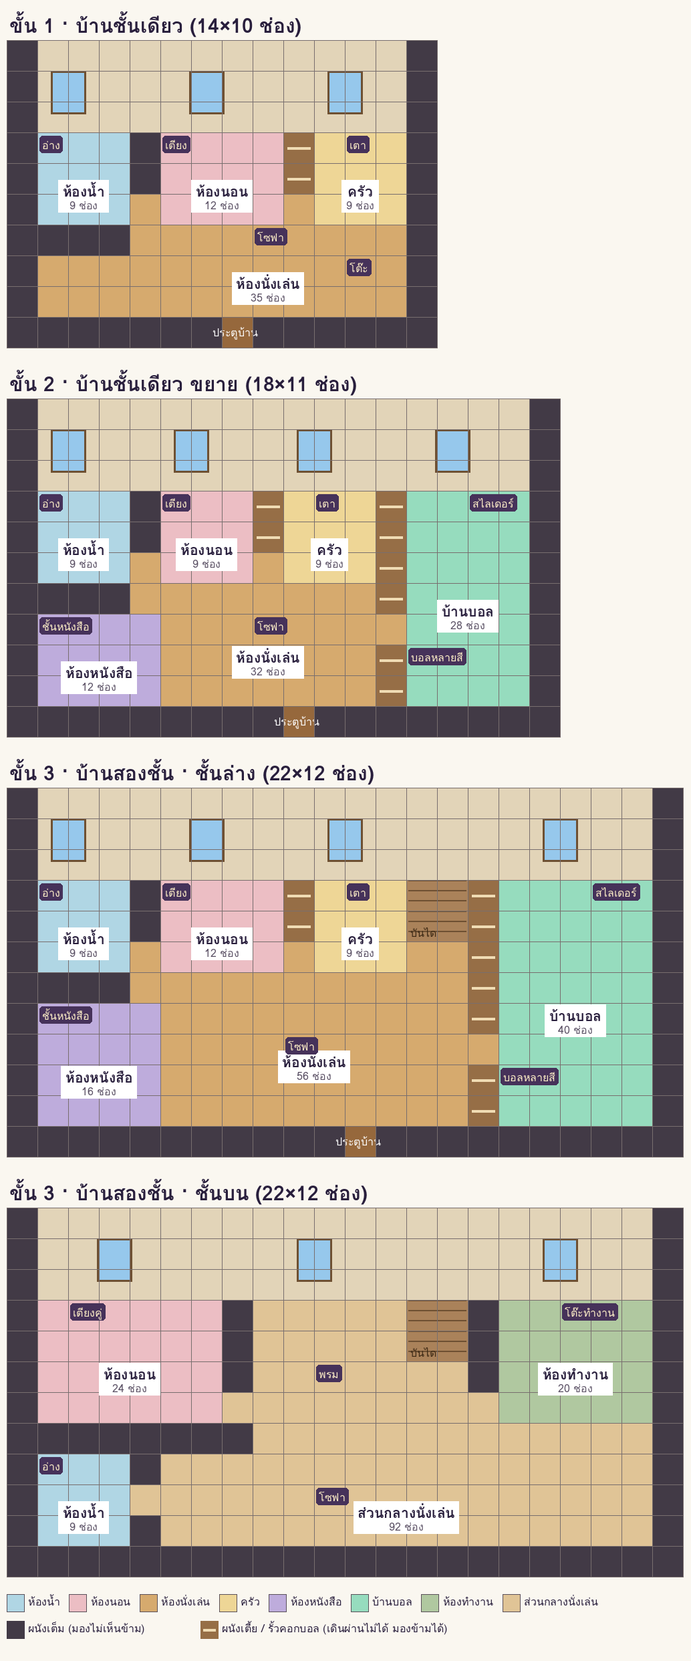
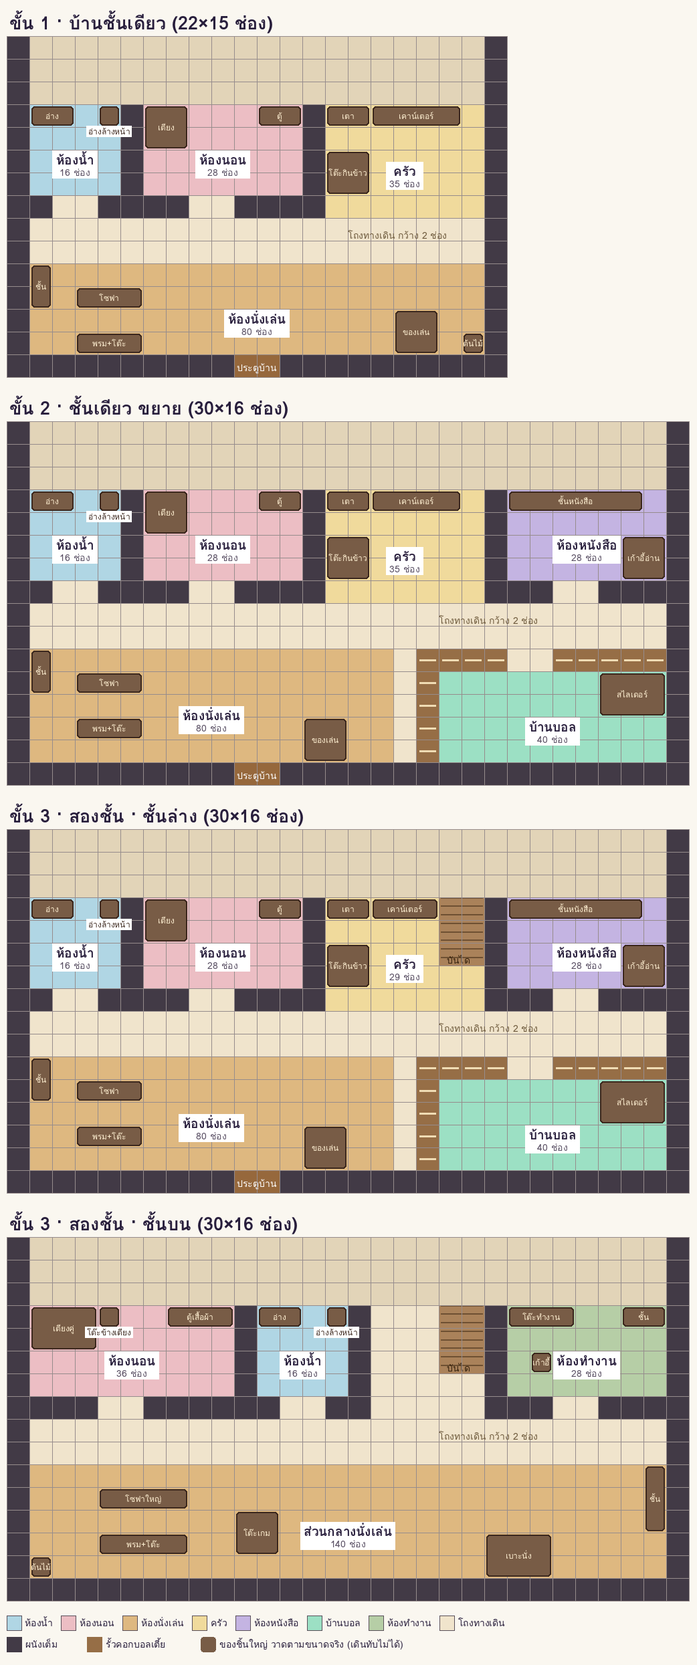
house interior: layout draft 2, bigger houses with a two-tile hall and furniture at real size (draft 1 was too cramped)

diff --git a/house_layouts.py b/house_layouts.py
@@ -1,98 +1,136 @@
 # -*- coding: utf-8 -*-
-# House interior layouts, three steps (owner brief, 4 Oct). Units: game tiles (32 px). Rows 0-2 = back wall, floor = rows 3..H-2, cols 1..W-2.
-# Room sizes come from the game (HSZ): 14x10, 18x11, 22x12.
+# House interior layouts, draft 2 (owner, 4 Oct: draft 1 was too small, hardly any room to walk).
+# Bigger houses built round one rule: a HALL two tiles wide runs through the middle, rooms open onto it through doors two tiles wide,
+# and the big furniture is drawn at its real size so the free walking room can be counted, not guessed.
+# Units: game tiles (32 px). Rows 0-2 = back wall. The game's room sizes (HSZ) are numbers in the code and will be changed to these.
 import json
 from PIL import Image, ImageDraw, ImageFont
-C = 46                                   # drawing size of one tile in the plan picture
+C = 34
 FB = '/usr/share/fonts/opentype/tlwg/Loma-Bold.otf'; FR = '/usr/share/fonts/opentype/tlwg/Loma.otf'
-f_room = ImageFont.truetype(FB, 21, layout_engine=ImageFont.Layout.RAQM); f_small = ImageFont.truetype(FR, 16, layout_engine=ImageFont.Layout.RAQM); f_title = ImageFont.truetype(FB, 30, layout_engine=ImageFont.Layout.RAQM)
-COL = {'bath': (176, 214, 228), 'bed': (236, 190, 196), 'living': (214, 170, 110), 'kitchen': (238, 214, 150), 'book': (190, 172, 220), 'ball': (150, 220, 190), 'work': (176, 200, 160), 'hall': (224, 196, 150)}
-NAME = {'bath': 'ห้องน้ำ', 'bed': 'ห้องนอน', 'living': 'ห้องนั่งเล่น', 'kitchen': 'ครัว', 'book': 'ห้องหนังสือ', 'ball': 'บ้านบอล', 'work': 'ห้องทำงาน', 'hall': 'ส่วนกลางนั่งเล่น'}
-WALL = (66, 58, 70); BACK = (226, 212, 184); LOW = (150, 110, 70)
+L = ImageFont.Layout.RAQM
+f_room = ImageFont.truetype(FB, 19, layout_engine=L); f_small = ImageFont.truetype(FR, 14, layout_engine=L); f_title = ImageFont.truetype(FB, 27, layout_engine=L); f_tiny = ImageFont.truetype(FR, 12, layout_engine=L)
+COL = {'bath': (176, 214, 228), 'bed': (236, 190, 196), 'living': (222, 184, 128), 'kitchen': (240, 218, 156), 'book': (196, 180, 226), 'ball': (156, 224, 196), 'work': (182, 206, 166), 'hall': (240, 228, 204)}
+NAME = {'bath': 'ห้องน้ำ', 'bed': 'ห้องนอน', 'living': 'ห้องนั่งเล่น', 'kitchen': 'ครัว', 'book': 'ห้องหนังสือ', 'ball': 'บ้านบอล', 'work': 'ห้องทำงาน', 'hall': 'โถงทางเดิน'}
+WALL = (66, 58, 70); BACK = (226, 212, 184); LOW = (150, 110, 70); THING = (120, 92, 70)
 
-# every plan: rooms = [kind, x0, y0, x1, y1] inclusive tiles · walls = full walls (solid) · low = half walls / play-pen fence (solid, see over) ·
-# doors = gaps in a wall line · things = [label, x, y] where the big fixed things go · stairs = [x0, y0, x1, y1]
+def base(W, H, upper, lower, extra_walls=(), low=(), things=(), stairs=None, door=None, title='', pid=''):
+    # upper = [(kind, x0, x1, open)] rooms along the back wall, rows 3..6; a wall column stands between neighbours; open=True means no wall toward the hall
+    rooms = []; walls = []; x_prev_end = None
+    for k, x0, x1, opn, doorx in upper:
+        rooms.append([k, x0, 3, x1, 6 if not opn else 7])
+        if not opn:
+            for x in range(x0, x1 + 1):
+                if doorx is None or x not in (doorx, doorx + 1): walls.append([x, 7, x, 7])
+                else: rooms.append(['hall', x, 7, x, 7])
+    xs = sorted((x0, x1) for _, x0, x1, _, _ in upper)
+    for (a0, a1), (b0, b1) in zip(xs, xs[1:]):
+        for x in range(a1 + 1, b0): walls.append([x, 3, x, 7])
+    rooms.append(['hall', 1, 8, W - 2, 9])
+    for k, x0, y0, x1, y1 in lower: rooms.append([k, x0, y0, x1, y1])
+    return {'id': pid, 'title': title, 'W': W, 'H': H, 'door': door, 'rooms': rooms, 'walls': walls + [list(w) for w in extra_walls], 'low': [list(l) for l in low], 'things': [list(t) for t in things], 'stairs': stairs}
+
 PLANS = [
- {'id': 'L1', 'title': 'ขั้น 1 · บ้านชั้นเดียว (14×10 ช่อง)', 'W': 14, 'H': 10, 'door': 7,
-  'rooms': [['bath', 1, 3, 3, 5], ['bed', 5, 3, 8, 5], ['kitchen', 10, 3, 12, 5], ['living', 4, 6, 12, 8], ['living', 1, 7, 3, 8], ['living', 9, 5, 9, 5], ['living', 4, 5, 4, 5]],
-  'walls': [[4, 3, 4, 4], [1, 6, 3, 6]], 'low': [[9, 3, 9, 4]],
-  'things': [['อ่าง', 1, 3], ['เตียง', 5, 3], ['เตา', 11, 3], ['โซฟา', 8, 6], ['โต๊ะ', 11, 7]], 'stairs': None, 'windows': [2, 6.5, 11]},
- {'id': 'L2', 'title': 'ขั้น 2 · บ้านชั้นเดียว ขยาย (18×11 ช่อง)', 'W': 18, 'H': 11, 'door': 9,
-  'rooms': [['bath', 1, 3, 3, 5], ['book', 1, 7, 4, 9], ['bed', 5, 3, 7, 5], ['kitchen', 9, 3, 11, 5], ['living', 5, 6, 11, 9], ['living', 8, 5, 8, 5], ['living', 4, 5, 4, 6], ['living', 12, 7, 12, 7], ['ball', 13, 3, 16, 9]],
-  'walls': [[4, 3, 4, 4], [1, 6, 3, 6]], 'low': [[8, 3, 8, 4], [12, 3, 12, 6], [12, 8, 12, 9]],
-  'things': [['อ่าง', 1, 3], ['ชั้นหนังสือ', 1, 7], ['เตียง', 5, 3], ['เตา', 10, 3], ['โซฟา', 8, 7], ['สไลเดอร์', 15, 3], ['บอลหลายสี', 13, 8]], 'stairs': None, 'windows': [2, 6, 10, 14.5]},
- {'id': 'L3a', 'title': 'ขั้น 3 · บ้านสองชั้น · ชั้นล่าง (22×12 ช่อง)', 'W': 22, 'H': 12, 'door': 11,
-  'rooms': [['bath', 1, 3, 3, 5], ['book', 1, 7, 4, 10], ['bed', 5, 3, 8, 5], ['kitchen', 10, 3, 12, 5], ['living', 5, 6, 14, 10], ['living', 9, 5, 9, 5], ['living', 4, 5, 4, 6], ['living', 13, 5, 14, 5], ['living', 15, 8, 15, 8], ['ball', 16, 3, 20, 10]],
-  'walls': [[4, 3, 4, 4], [1, 6, 3, 6]], 'low': [[9, 3, 9, 4], [15, 3, 15, 7], [15, 9, 15, 10]],
-  'things': [['อ่าง', 1, 3], ['ชั้นหนังสือ', 1, 7], ['เตียง', 5, 3], ['เตา', 11, 3], ['โซฟา', 9, 8], ['สไลเดอร์', 19, 3], ['บอลหลายสี', 16, 9]], 'stairs': [13, 3, 14, 4], 'windows': [2, 6.5, 11, 18]},
- {'id': 'L3b', 'title': 'ขั้น 3 · บ้านสองชั้น · ชั้นบน (22×12 ช่อง)', 'W': 22, 'H': 12, 'door': None,
-  'rooms': [['bed', 1, 3, 6, 6], ['bath', 1, 8, 3, 10], ['work', 16, 3, 20, 6], ['hall', 8, 3, 14, 7], ['hall', 5, 8, 20, 10], ['hall', 15, 6, 15, 7], ['hall', 16, 7, 20, 7], ['hall', 7, 6, 7, 6], ['hall', 4, 9, 4, 9]],
-  'walls': [[7, 3, 7, 5], [1, 7, 7, 7], [4, 8, 4, 8], [4, 10, 4, 10], [15, 3, 15, 5]], 'low': [],
-  'things': [['เตียงคู่', 2, 3], ['อ่าง', 1, 8], ['โต๊ะทำงาน', 18, 3], ['โซฟา', 10, 9], ['พรม', 10, 5]], 'stairs': [13, 3, 14, 4], 'windows': [3.5, 10, 18]},
+ base(22, 15, pid='L1', title='ขั้น 1 · บ้านชั้นเดียว (22×15 ช่อง)', door=(10, 11),
+   upper=[('bath', 1, 4, False, 2), ('bed', 6, 12, False, 8), ('kitchen', 14, 20, True, None)],
+   lower=[('living', 1, 10, 20, 13)],
+   things=[('อ่าง', 1, 3, 2, 3), ('อ่างล้างหน้า', 4, 3, 4, 3), ('เตียง', 6, 3, 7, 4), ('ตู้', 11, 3, 12, 3), ('เตา', 14, 3, 15, 3), ('เคาน์เตอร์', 16, 3, 19, 3), ('โต๊ะกินข้าว', 14, 5, 15, 6),
+           ('ชั้น', 1, 10, 1, 11), ('โซฟา', 3, 11, 5, 11), ('พรม+โต๊ะ', 3, 13, 5, 13), ('ต้นไม้', 20, 13, 20, 13), ('ของเล่น', 17, 12, 18, 13)]),
+ base(30, 16, pid='L2', title='ขั้น 2 · ชั้นเดียว ขยาย (30×16 ช่อง)', door=(10, 11),
+   upper=[('bath', 1, 4, False, 2), ('bed', 6, 12, False, 8), ('kitchen', 14, 20, True, None), ('book', 22, 28, False, 24)],
+   lower=[('living', 1, 10, 16, 14), ('ball', 19, 11, 28, 14), ('hall', 17, 10, 17, 14), ('hall', 22, 10, 23, 10)],
+   low=[(18, 10, 18, 14), (19, 10, 21, 10), (24, 10, 28, 10)],
+   things=[('อ่าง', 1, 3, 2, 3), ('อ่างล้างหน้า', 4, 3, 4, 3), ('เตียง', 6, 3, 7, 4), ('ตู้', 11, 3, 12, 3), ('เตา', 14, 3, 15, 3), ('เคาน์เตอร์', 16, 3, 19, 3), ('โต๊ะกินข้าว', 14, 5, 15, 6),
+           ('ชั้นหนังสือ', 22, 3, 27, 3), ('เก้าอี้อ่าน', 27, 5, 28, 6), ('ชั้น', 1, 10, 1, 11), ('โซฟา', 3, 11, 5, 11), ('พรม+โต๊ะ', 3, 13, 5, 13), ('ของเล่น', 13, 13, 14, 14), ('สไลเดอร์', 26, 11, 28, 12)]),
+ base(30, 16, pid='L3a', title='ขั้น 3 · สองชั้น · ชั้นล่าง (30×16 ช่อง)', door=(10, 11), stairs=[19, 3, 20, 5],
+   upper=[('bath', 1, 4, False, 2), ('bed', 6, 12, False, 8), ('kitchen', 14, 20, True, None), ('book', 22, 28, False, 24)],
+   lower=[('living', 1, 10, 16, 14), ('ball', 19, 11, 28, 14), ('hall', 17, 10, 17, 14), ('hall', 22, 10, 23, 10)],
+   low=[(18, 10, 18, 14), (19, 10, 21, 10), (24, 10, 28, 10)],
+   things=[('อ่าง', 1, 3, 2, 3), ('อ่างล้างหน้า', 4, 3, 4, 3), ('เตียง', 6, 3, 7, 4), ('ตู้', 11, 3, 12, 3), ('เตา', 14, 3, 15, 3), ('เคาน์เตอร์', 16, 3, 18, 3), ('โต๊ะกินข้าว', 14, 5, 15, 6),
+           ('ชั้นหนังสือ', 22, 3, 27, 3), ('เก้าอี้อ่าน', 27, 5, 28, 6), ('ชั้น', 1, 10, 1, 11), ('โซฟา', 3, 11, 5, 11), ('พรม+โต๊ะ', 3, 13, 5, 13), ('ของเล่น', 13, 13, 14, 14), ('สไลเดอร์', 26, 11, 28, 12)]),
+ base(30, 16, pid='L3b', title='ขั้น 3 · สองชั้น · ชั้นบน (30×16 ช่อง)', door=None, stairs=[19, 3, 20, 5],
+   upper=[('bed', 1, 9, False, 4), ('bath', 11, 14, False, 12), ('hall', 16, 20, True, None), ('work', 22, 28, False, 24)],
+   lower=[('living', 1, 10, 28, 14)],
+   things=[('เตียงคู่', 1, 3, 3, 4), ('ตู้เสื้อผ้า', 7, 3, 9, 3), ('โต๊ะข้างเตียง', 4, 3, 4, 3), ('อ่าง', 11, 3, 12, 3), ('อ่างล้างหน้า', 14, 3, 14, 3), ('โต๊ะทำงาน', 22, 3, 24, 3), ('ชั้น', 27, 3, 28, 3), ('เก้าอี้', 23, 5, 23, 5),
+           ('โซฟาใหญ่', 4, 11, 7, 11), ('พรม+โต๊ะ', 4, 13, 7, 13), ('โต๊ะเกม', 10, 12, 11, 13), ('ชั้น', 28, 10, 28, 12), ('ต้นไม้', 1, 14, 1, 14), ('เบาะนั่ง', 21, 13, 23, 14)]),
 ]
+NAME_UP = {'L3b': {'living': 'ส่วนกลางนั่งเล่น'}}
 
-def draw(pl):
-    W, H = pl['W'], pl['H']; im = Image.new('RGB', (W * C + 2, H * C + 2 + 50), (250, 247, 240)); d = ImageDraw.Draw(im); oy = 50
-    d.text((4, 4), pl['title'], font=f_title, fill=(40, 30, 60))
-    R = lambda x0, y0, x1, y1, c: d.rectangle((x0 * C, oy + y0 * C, (x1 + 1) * C - 1, oy + (y1 + 1) * C - 1), fill=c)
-    R(0, 0, W - 1, H - 1, WALL); R(1, 0, W - 2, 2, BACK)
-    R(1, 3, W - 2, H - 2, (205, 190, 170))                       # any floor not given to a room
-    for k, x0, y0, x1, y1 in pl['rooms']: R(x0, y0, x1, y1, COL[k])
-    for x0, y0, x1, y1 in pl['walls']: R(x0, y0, x1, y1, WALL)
-    for x0, y0, x1, y1 in pl['low']:
-        R(x0, y0, x1, y1, LOW)
-        for yy in range(y0, y1 + 1):
-            for xx in range(x0, x1 + 1): d.line((xx * C + 6, oy + yy * C + C // 2, (xx + 1) * C - 6, oy + yy * C + C // 2), fill=(240, 220, 180), width=4)
-    for wx in pl['windows']: d.rectangle((wx * C - 26, oy + 1.0 * C, wx * C + 26, oy + 2.4 * C), fill=(150, 200, 236), outline=(110, 80, 50), width=3)
-    if pl['stairs']:
-        x0, y0, x1, y1 = pl['stairs']; R(x0, y0, x1, y1, (170, 130, 90))
-        for i in range(6): yy = oy + y0 * C + i * ((y1 - y0 + 1) * C) / 6; d.line((x0 * C + 3, yy, (x1 + 1) * C - 3, yy), fill=(110, 80, 50), width=2)
-        d.text((x0 * C + 6, oy + (y1 + 1) * C - 26), 'บันได', font=f_small, fill=(60, 40, 20))
-    if pl['door'] is not None:
-        R(pl['door'], H - 1, pl['door'], H - 1, (150, 104, 60)); d.text((pl['door'] * C - 14, oy + (H - 1) * C + 10), 'ประตูบ้าน', font=f_small, fill=(255, 255, 255))
-    for x in range(W + 1): d.line((x * C, oy, x * C, oy + H * C), fill=(0, 0, 0, 40) if False else (120, 110, 110), width=1)
-    for y in range(H + 1): d.line((0, oy + y * C, W * C, oy + y * C), fill=(120, 110, 110), width=1)
-    big = {}; tot = {}                                            # one label per room, on its biggest rectangle; the size shown is the whole room
-    for k, x0, y0, x1, y1 in pl['rooms']:
-        a = (x1 - x0 + 1) * (y1 - y0 + 1); tot[k] = tot.get(k, 0) + a
-        if k not in big or a > big[k][0]: big[k] = (a, x0, y0, x1, y1)
-    for k, (a, x0, y0, x1, y1) in big.items():
-        t = NAME[k]; w = d.textlength(t, font=f_room); cx = (x0 + x1 + 1) / 2 * C; cy = oy + (y0 + y1 + 1) / 2 * C + 6
-        s2 = '%d ช่อง' % tot[k]; w2 = d.textlength(s2, font=f_small); ww = max(w, w2)
-        d.rectangle((cx - ww / 2 - 6, cy - 4, cx + ww / 2 + 6, cy + 44), fill=(255, 255, 255)); d.text((cx - w / 2, cy - 4), t, font=f_room, fill=(40, 30, 60)); d.text((cx - w2 / 2, cy + 21), s2, font=f_small, fill=(90, 80, 100))
-    for lab, x, y in pl['things']:
-        w = d.textlength(lab, font=f_small); d.rounded_rectangle((x * C + 3, oy + y * C + 5, x * C + 11 + w, oy + y * C + 30), 5, fill=(70, 50, 90)); d.text((x * C + 7, oy + y * C + 6), lab, font=f_small, fill=(255, 240, 200))
-    return im
-
-ims = [draw(p) for p in PLANS]; Wm = max(i.width for i in ims) + 20; Hs = sum(i.height + 24 for i in ims) + 110
-S = Image.new('RGB', (Wm, Hs), (250, 247, 240)); d = ImageDraw.Draw(S); y = 10
-for i in ims: S.paste(i, (10, y)); y += i.height + 24
-lx = 10
-for k in ('bath', 'bed', 'living', 'kitchen', 'book', 'ball', 'work', 'hall'):
-    d.rectangle((lx, y, lx + 26, y + 26), fill=COL[k], outline=(90, 80, 90)); d.text((lx + 32, y - 2), NAME[k], font=f_small, fill=(40, 30, 60)); lx += 46 + d.textlength(NAME[k], font=f_small)
-y += 40; d.rectangle((10, y, 36, y + 26), fill=WALL); d.text((42, y - 2), 'ผนังเต็ม (มองไม่เห็นข้าม)', font=f_small, fill=(40, 30, 60))
-d.rectangle((300, y, 326, y + 26), fill=LOW); d.line((304, y + 13, 322, y + 13), fill=(240, 220, 180), width=4); d.text((332, y - 2), 'ผนังเตี้ย / รั้วคอกบอล (เดินผ่านไม่ได้ มองข้ามได้)', font=f_small, fill=(40, 30, 60))
-S.save('house-layouts.png'); json.dump(PLANS, open('layouts.json', 'w', encoding='utf8'), ensure_ascii=False); print(S.size)
-# checks a picture cannot show: can every room be walked to from the front door / the stairs?
-for p in PLANS:
+def cells(r): return [(x, y) for x in range(r[0], r[2] + 1) for y in range(r[1], r[3] + 1)]
+def analyse(p):
     W, H = p['W'], p['H']; solid = set()
-    for x0, y0, x1, y1 in p['walls'] + p['low']:
-        for yy in range(y0, y1 + 1):
-            for xx in range(x0, x1 + 1): solid.add((xx, yy))
-    if p['stairs']:
-        x0, y0, x1, y1 = p['stairs']
-        for yy in range(y0, y1 + 1):
-            for xx in range(x0, x1 + 1): solid.add((xx, yy))
+    for r in p['walls'] + p['low']: solid.update(cells(r))
+    if p['stairs']: solid.update(cells(p['stairs']))
+    furn = set()
+    for t in p['things']: furn.update(cells(t[1:]))
     floor = {(x, y) for x in range(1, W - 1) for y in range(3, H - 1)} - solid
-    start = (p['door'], H - 2) if p['door'] is not None else (p['stairs'][0], p['stairs'][3] + 1)
-    seen = {start}; q = [start]
+    free = floor - furn
+    start = (p['door'][0], H - 2) if p['door'] else (p['stairs'][0], p['stairs'][3] + 1)
+    seen = {start} if start in free else set(); q = list(seen)
     while q:
         x, y = q.pop()
         for n in ((x + 1, y), (x - 1, y), (x, y + 1), (x, y - 1)):
-            if n in floor and n not in seen: seen.add(n); q.append(n)
-    cut = {}
+            if n in free and n not in seen: seen.add(n); q.append(n)
+    wide = {c for c in free if any(all((c[0] + dx + i, c[1] + dy + j) in free for i in (0, 1) for j in (0, 1)) for dx in (-1, 0) for dy in (-1, 0))}
+    kind = {}
     for k, x0, y0, x1, y1 in p['rooms']:
-        t = [(x, y) for x in range(x0, x1 + 1) for y in range(y0, y1 + 1) if (x, y) in floor]; r = sum(1 for c in t if c in seen)
-        cut[k] = cut.get(k, [0, 0]); cut[k][0] += r; cut[k][1] += len(t)
-    area = {k: v[1] for k, v in cut.items()}
-    print(p['id'], 'floor tiles', len(floor), '| reachable', len(seen), '| unreachable', len(floor) - len(seen), '| room tiles', area, '| stairs foot free' if p['stairs'] and (p['stairs'][0], p['stairs'][3] + 1) in floor else '')
+        for c in cells((x0, y0, x1, y1)): kind[c] = k
+    hall = {c for c in free if kind.get(c) == 'hall'}
+    area = {}
+    for c in floor: area[kind.get(c, '?')] = area.get(kind.get(c, '?'), 0) + 1
+    doors = []                                                    # runs of open tiles in the wall row (y=7) that have wall on both sides
+    x = 1
+    while x < W - 1:
+        if (x, 7) in floor and (x - 1, 7) in solid:
+            x1 = x
+            while (x1 + 1, 7) in floor: x1 += 1
+            if (x1 + 1, 7) in solid: doors.append(x1 - x + 1)
+            x = x1 + 1
+        else: x += 1
+    return {'floor': len(floor), 'furniture': len(furn & floor), 'free': len(free), 'reach': len(seen), 'two_wide': len(wide), 'hall': len(hall), 'hall_two_wide': len(hall & wide), 'doors': doors, 'area': area}
+
+def draw(p, st):
+    W, H = p['W'], p['H']; im = Image.new('RGB', (W * C + 2, H * C + 2 + 44), (250, 247, 240)); d = ImageDraw.Draw(im); oy = 44
+    d.text((4, 2), p['title'], font=f_title, fill=(40, 30, 60))
+    R = lambda r, c: d.rectangle((r[0] * C, oy + r[1] * C, (r[2] + 1) * C - 1, oy + (r[3] + 1) * C - 1), fill=c)
+    R((0, 0, W - 1, H - 1), WALL); R((1, 0, W - 2, 2), BACK); R((1, 3, W - 2, H - 2), COL['hall'])
+    for k, x0, y0, x1, y1 in p['rooms']: R((x0, y0, x1, y1), COL[k])
+    for r in p['walls']: R(r, WALL)
+    for r in p['low']:
+        R(r, LOW)
+        for (x, y) in cells(r): d.line((x * C + 5, oy + y * C + C // 2, (x + 1) * C - 5, oy + y * C + C // 2), fill=(240, 220, 180), width=3)
+    if p['stairs']:
+        x0, y0, x1, y1 = p['stairs']; R(p['stairs'], (170, 130, 90))
+        for i in range(8): yy = oy + y0 * C + i * ((y1 - y0 + 1) * C) / 8; d.line((x0 * C + 3, yy, (x1 + 1) * C - 3, yy), fill=(110, 80, 50), width=2)
+        d.text((x0 * C + 12, oy + (y1 + 1) * C - 20), 'บันได', font=f_small, fill=(50, 30, 10))
+    if p['door']:
+        R((p['door'][0], H - 1, p['door'][1], H - 1), (150, 104, 60)); d.text((p['door'][0] * C + 4, oy + (H - 1) * C + 8), 'ประตูบ้าน', font=f_small, fill=(255, 255, 255))
+    for x in range(W + 1): d.line((x * C, oy, x * C, oy + H * C), fill=(150, 140, 140), width=1)
+    for y in range(H + 1): d.line((0, oy + y * C, W * C, oy + y * C), fill=(150, 140, 140), width=1)
+    for t in p['things']:
+        lab, x0, y0, x1, y1 = t; d.rounded_rectangle((x0 * C + 3, oy + y0 * C + 3, (x1 + 1) * C - 3, oy + (y1 + 1) * C - 3), 5, fill=THING, outline=(60, 40, 30), width=2)
+        w = d.textlength(lab, font=f_tiny); cx = (x0 + x1 + 1) / 2 * C; cy = oy + (y0 + y1 + 1) / 2 * C
+        if w < (x1 - x0 + 1) * C - 4: d.text((cx - w / 2, cy - 9), lab, font=f_tiny, fill=(255, 240, 210))
+        else: d.rectangle((cx - w / 2 - 2, cy + C / 2 - 2, cx + w / 2 + 2, cy + C / 2 + 14), fill=(255, 255, 255)); d.text((cx - w / 2, cy + C / 2 - 3), lab, font=f_tiny, fill=(60, 40, 30))
+    big = {}
+    for k, x0, y0, x1, y1 in p['rooms']:
+        a = (x1 - x0 + 1) * (y1 - y0 + 1)
+        if k != 'hall' and (k not in big or a > big[k][0]): big[k] = (a, x0, y0, x1, y1)
+    for k, (a, x0, y0, x1, y1) in big.items():
+        t = NAME_UP.get(p['id'], {}).get(k, NAME[k]); s2 = '%d ช่อง' % st['area'].get(k, 0); w = d.textlength(t, font=f_room); w2 = d.textlength(s2, font=f_small); ww = max(w, w2)
+        cx = (x0 + x1 + 1) / 2 * C; cy = oy + (y0 + y1 + 1) / 2 * C + 4
+        d.rectangle((cx - ww / 2 - 5, cy - 3, cx + ww / 2 + 5, cy + 38), fill=(255, 255, 255)); d.text((cx - w / 2, cy - 4), t, font=f_room, fill=(40, 30, 60)); d.text((cx - w2 / 2, cy + 18), s2, font=f_small, fill=(90, 80, 100))
+    hx = (W // 2 + 4) * C; d.text((hx, oy + 8 * C + 14), 'โถงทางเดิน กว้าง 2 ช่อง', font=f_small, fill=(110, 90, 60))
+    return im
+
+stats = [analyse(p) for p in PLANS]; ims = [draw(p, s) for p, s in zip(PLANS, stats)]
+Wm = max(i.width for i in ims) + 20; S = Image.new('RGB', (Wm, sum(i.height + 20 for i in ims) + 84), (250, 247, 240)); d = ImageDraw.Draw(S); y = 10
+for i in ims: S.paste(i, (10, y)); y += i.height + 20
+lx = 10
+for k in ('bath', 'bed', 'living', 'kitchen', 'book', 'ball', 'work', 'hall'):
+    d.rectangle((lx, y, lx + 22, y + 22), fill=COL[k], outline=(90, 80, 90)); d.text((lx + 27, y - 1), NAME[k], font=f_small, fill=(40, 30, 60)); lx += 40 + d.textlength(NAME[k], font=f_small)
+y += 32; d.rectangle((10, y, 32, y + 22), fill=WALL); d.text((38, y - 1), 'ผนังเต็ม', font=f_small, fill=(40, 30, 60)); d.rectangle((130, y, 152, y + 22), fill=LOW); d.text((158, y - 1), 'รั้วคอกบอลเตี้ย', font=f_small, fill=(40, 30, 60))
+d.rounded_rectangle((300, y, 322, y + 22), 4, fill=THING); d.text((328, y - 1), 'ของชิ้นใหญ่ วาดตามขนาดจริง (เดินทับไม่ได้)', font=f_small, fill=(40, 30, 60))
+S.save('house-layouts-2.png'); json.dump(PLANS, open('layouts2.json', 'w', encoding='utf8'), ensure_ascii=False); print(S.size)
+for p, s in zip(PLANS, stats):
+    print(p['id'], '| floor', s['floor'], '| furniture', s['furniture'], '| free to walk', s['free'], '(%d%%)' % round(100 * s['free'] / s['floor']), '| reachable', s['reach'], '| free tiles that sit in a 2x2 clear patch', s['two_wide'], '(%d%%)' % round(100 * s['two_wide'] / s['free']),
+          '| hall', s['hall'], 'of which 2 wide', s['hall_two_wide'], '| door widths', s['doors'], '| rooms', {k: v for k, v in s['area'].items() if k != 'hall'})

diff --git a/HANDOFF_S13.md b/HANDOFF_S13.md
@@ -5,6 +5,7 @@
 ## สถานะ
 - เกม: https://phoneyjung.github.io/Leah-PP/ · โหมด GM: `?gm` · repo: https://github.com/phoneyjung/Leah-PP · อัปไฟล์: https://github.com/phoneyjung/Leah-PP/upload/main
 - **พื้นใหม่ไม่มีดอกไม้ (อยู่ในรุ่น 1.17 ที่อัป 4 ต.ค.):** เจ้าของส่งภาพ 5 ภาพ เลือก 4 (`art-G9b-ground-*.png`) · หญ้าเรียบ · ดอกไม้เป็นชิ้นแยก 168 ดอก 60 กลุ่ม วางตามกติกา (ใกล้ต้นไม้ พุ่ม รั้ว เป็นหลัก) · กอหญ้าใช้สีตามสนามหญ้าอัตโนมัติ · แปลงดินของเราวางทับแปลงที่ AI วาด (ของ AI มีรอยเส้นที่ขอบล่าง) · ภาพพื้นของเกมเหลือ 713 KB (เดิม 973)
+- **ผังบ้านร่างที่ 2 (4 ต.ค.):** เจ้าของว่าร่างแรก "เล็กไป แทบไม่มีทางเดิน" (ร่างแรกยึดขนาดห้องเดิมของเกม 14×10 พื้นเดินได้ 65 ช่อง) → ขยายบ้าน: ขั้น 1 = 22×15 · ขั้น 2 = 30×16 · ขั้น 3 = 30×16 ต่อชั้น · หลัก: โถงทางเดินกลางกว้าง 2 ช่องยาวตลอดบ้าน (แถว 8–9) ห้องเรียงชิดผนังหลัง (แถว 3–6) ผนังแถว 7 ประตูกว้าง 2 ช่อง ครัวเปิดโล่ง ห้องนั่งเล่นและบ้านบอลอยู่ครึ่งล่าง · ของชิ้นใหญ่วาดขนาดจริง · ตัวเลข: พื้น 203 / 296 / 290 / 301 ช่อง เดินได้ 84–86% ทุกช่องเดินถึง โถงกว้าง 2 ช่องทั้งหมด · **ต้องเปลี่ยน `HSZ` ในเกมจาก [[14,10],[18,11],[22,12]] เป็นขนาดใหม่เมื่อผังผ่าน** · ไฟล์ `house_layouts.py` (ฉบับร่าง 2 แทนร่าง 1) · รอความเห็นเจ้าของ
 - **ผังบ้าน 3 ขั้น: ร่างแรกส่งให้เจ้าของดูแล้ว รอความเห็น (4 ต.ค.)** เจ้าของสั่ง: ออกแบบให้พอใจก่อนแล้วค่อยทำต่อ · ความต้องการ: ขั้น 1 ชั้นเดียว = ห้องน้ำเล็ก ห้องนอน ห้องนั่งเล่น ครัว · ขั้น 2 ชั้นเดียวขยาย = เพิ่มห้องหนังสือ และบ้านบอล (บอลหลายสีกลิ้งเมื่อเดิน มีสไลเดอร์เล่นได้) · ขั้น 3 สองชั้น = ชั้นบนมีห้องนอน ห้องทำงาน ห้องน้ำ และส่วนกลางนั่งเล่น · ไฟล์: `house_layouts.py` (วาดผัง + ตรวจว่าเดินถึงทุกห้อง) `house_layouts.json` `house-layouts.png` · ขนาดตามเกม 14×10 / 18×11 / 22×12 ช่อง · **พรอมป์ห้องเปล่า A ที่ส่งไปก่อนหน้าใช้ผังเก่า ให้พักไว้** ต้องทำภาพนำใหม่จากผังที่เจ้าของผ่าน · งานโค้ดที่ตามมา: โซนห้องใหม่ใน `buildRoom` บ้านบอล (บอลกลิ้ง สไลเดอร์) ยังไม่ได้เริ่ม
 - **กติกาส่งพรอมป์ (เจ้าของ 4 ต.ค.):** พรอมป์ ChatGPT ทุกอันต้องขึ้นต้นด้วยคำสั่งให้ทำ **5 รูป** (`Make 5 separate images, one after another. Each one must be a brand-new painting, not an edit or a copy of the previous image.`) เจ้าของจะส่งทั้ง 5 รูปกลับมาให้วิจารณ์และเลือก · ไฟล์แนบที่มีไฟล์เดียวส่งเป็นไฟล์ตรง ๆ ไม่ใส่ zip · เจ้าของอยากให้ไอคอนทุกอันมีเอกลักษณ์และสัญลักษณ์ปุ่มเข้าใจง่าย: ส่งพรอมป์เลือกแนว 5 แนวแล้ว (พิกเซลสีเต็ม · ตราทอง · แสงโคม · สติกเกอร์ · สัญลักษณ์เรียบ) รอเจ้าของเลือกแนวหลัก แล้วจึงทำชุดเต็มราว 30 ชิ้น
 - **ฉากในบ้าน: ส่งชุดแนบ `attach-house-inside.zip` + พรอมป์ 2 ชุดแล้ว (4 ต.ค.)** รอภาพ · ภาพนำ `2_room-guide.png` 1536×1024: ห้อง 14×10 ช่อง ขยาย 3.2 เท่า เริ่มที่ x=51 (ตัดกลับด้วยการครอป 51..1485 แล้วย่อ ÷3.2 เป็น 448×320) · หน้าต่างย้ายไปกลางห้องน้ำ (x=96) และห้องหลัก (x=272, 352) เพราะตำแหน่งเดิมของเกม (x=160) ทับผนังกั้น → เมื่อใช้ห้องที่วาดแล้วต้องเอาสไปรต์หน้าต่างของเกมออก · แผ่นเฟอร์นิเจอร์ขอ 12 ชิ้นลำดับเดียวกับ `furniture.png` เดิม เพื่อแทนไฟล์ได้ทันที
